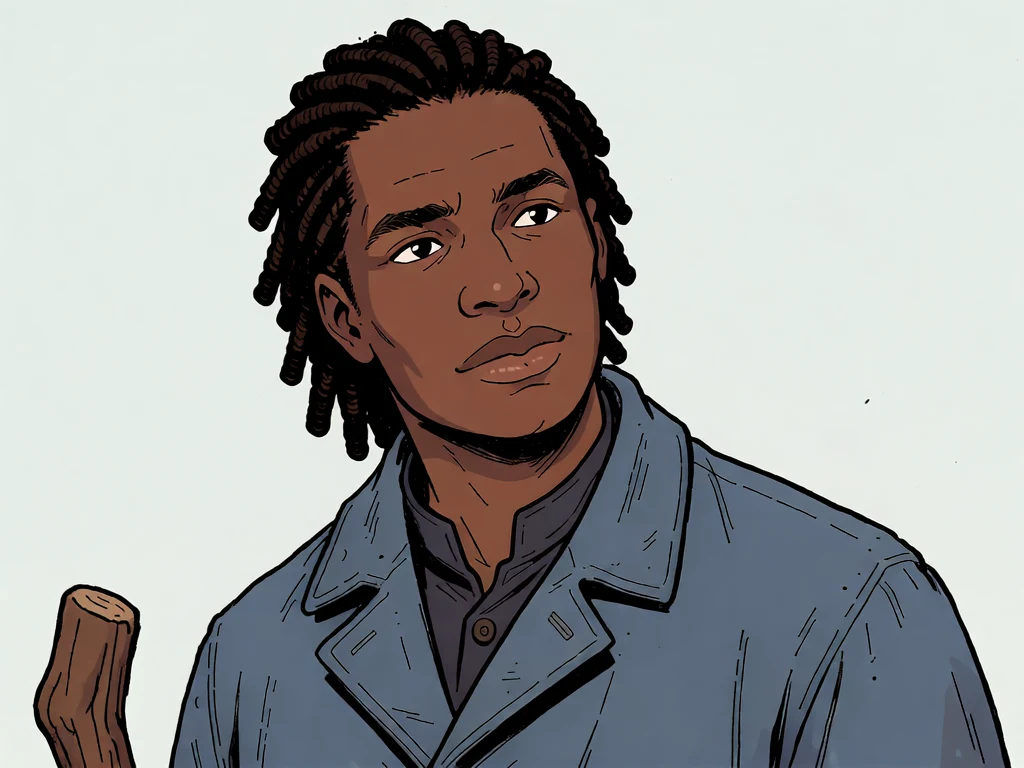
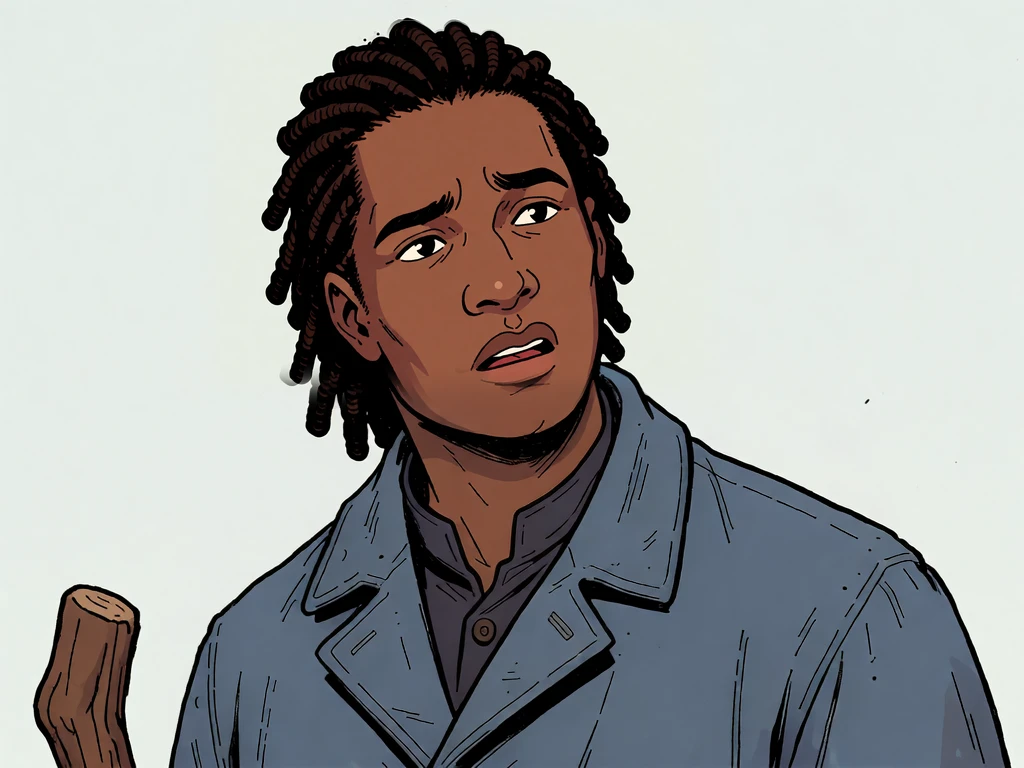
Run 8: Rook's "Granny?" picture redrawn, more concerned (Ladi)
Claude-Session: https://claude.ai/code/session_01JTmPYBGE5RJi7qTbK5Qior

diff --git a/src/engine/stills.ts b/src/engine/stills.ts
@@ -52,7 +52,7 @@ export const STILLS: Record<string, StillCard> = {
   "r8-4": { who: "The event: his wisp at the end of a thin, shaking beam, over a black pit", faces: "No face." },
   "r8-5": { who: "Tilda near, Rook behind her braced on his staff", faces: "She is lost: eyes wide, brows up, mouth open. He looks back at her, eyes wide, mouth just open.", untilNextMs: 6000 },
   "r8-6": { who: "The same two, turned", faces: "She looks at him, waiting, mouth shut tight. He looks down at his staff, brows pulled hard together." },
-  "r8-7": { who: "Rook alone, head a little tilted", faces: "Listening: eyes up and aside, brows raised, mouth a little open.", extraMs: 1000 },
+  "r8-7": { who: "Rook alone, head a little tilted", faces: "Concerned: brows raised and drawn together, mouth open as if he has just asked.", extraMs: 1000 },
   "r8-8": { who: "The cutters in a row, hats in hand, backs to the wells", faces: "No faces." },
   "r8-9": { who: "Tilda, arms round the book, watching him", faces: "Shut. She has stopped expecting him to fix it." },
   "r8-10": { who: "Her hands on the book, the page of sixteens, the pen stopping", faces: "No face." },

diff --git a/src/engine/sieve.ts b/src/engine/sieve.ts
@@ -10,7 +10,7 @@ export const SIEVE = {
   shrine: "sieve",
   /** Ticks of talk before the stop starts. */
   bellTicks: 3,
-  /** What Tilda says when it starts again: about what just happened on the board, not an echo of Hesta (Ladi, 24 Nov, turning down "Again, please."). The story thread's working line until he picks. */
+  /** What Tilda says when it starts again: about what just happened on the board, not an echo of Hesta (Ladi, 24 Nov, turning down "Again, please."). He ruled for this one at 10:53 AM. */
   again: "Too many down the wells.",
   /** Height lost a tick untouched; gained on the tick a staff first reaches a wisp; gained each tick it stays. */
   fall: 1.6,

diff --git a/CREDITS.md b/CREDITS.md
@@ -13,7 +13,7 @@ subscription-only billing so no Spark was spent. Sources are in the project file
 | ui/*.webp (phone stick and buttons) | z_image_turbo_bf16, cropped to a circle with an alpha mask |
 | sprites/brazier.png, sprites/wisp-dawn.png (logo and favicon) | z_image_turbo_bf16, background removed with birefnet_image_background_removal_fp16 |
 | faces/&lt;who&gt;-&lt;mood&gt;.webp (story portraits: Hesta 3 moods, Lumi 6, Rook 4, Nell 6, Sefa 7, Kes 5; Kes's are drafts from the cast art thread, `sogni/lanternfall/production/kes/game/`, 2026-11-24) | Mood faces (Lumi's calling, grudging and delighted redrawn closed-mouth on 2026-11-23) from the cast art thread (project files `sogni/lanternfall/production/<who>/face-*.png`, 2026-11-23), resized to 160 px WebP |
-| stills/r8-{1,2,7,10,11a,11b}.webp (run 8's reaction stills: Tilda steady, Tilda and Rook at the far well, Rook listening, the count book, Tilda asking, Rook with no answer) | Drafts drawn by the gameplay thread with krea2_identity_edit_v1_2 on Sogni, 2026-11-24, on Ladi's plan, 0 Spark (project files `gameplay/stills/run8/`), 1024 by 768 as delivered. | The stills panel over the Sieve (`src/engine/stills.ts`) |
+| stills/r8-{1,2,7,10,11a,11b}.webp (run 8's reaction stills: Tilda steady, Tilda and Rook at the far well, Rook asking for Granny (redrawn the same day, more concerned, at Ladi's word), the count book, Tilda asking, Rook with no answer) | Drafts drawn by the gameplay thread with krea2_identity_edit_v1_2 on Sogni, 2026-11-24, on Ladi's plan, 0 Spark (project files `gameplay/stills/run8/`), 1024 by 768 as delivered. | The stills panel over the Sieve (`src/engine/stills.ts`) |
 | stills/r8-5.webp, stills/r8-6.webp (run 8's reaction stills at the tug: Tilda lost with Rook uneasy behind her; Tilda watching, Rook looking down) | Drawn by the cutscene thread on Sogni, 2026-11-24, on Ladi's plan; Ladi approved them at 10:44 AM ("Faces look good"). Every step with krea2_identity_edit_v1_2 on the subscription, 0 Spark, as that thread confirmed from its render logs (Tilda alone, Rook added behind her, the face changes on head crops), from the project's own persona sheets lf-tilda and lf-rook-high-grounds; the face transplants, Tilda's chalk smudge and Rook's enlarging are its own script and hand work, no model (sources `sogni/lanternfall/production/story/run8-stills/s5-closer.png` and `s6-closer.png`; delivered in project files `gameplay/stills/run8/`), 1024 by 768 as delivered | The stills panel over the Sieve: 5 as the tug takes hold, 6 cross-fading over it when the tug ends |
 | stills/r6-land-{1,2,3}.webp (run 6's landing pictures: the crowd looking up with Lumi in front, the comet over the island, Hesta landing in the glass) | Drafts drawn by the gameplay thread on Sogni, 2026-11-24, on Ladi's plan, 0 Spark, all with krea2_identity_edit_v1_2; picture 2 redrawn the same day from the game's own island (project files `gameplay/stills/run6/`), 1024 by 768 as delivered | The held pictures of the landing between runs 6 and 7; picture 2 shows only with `?stillsonly`, since the comet now falls on the map |
 | stills/alarm/**/*.webp (the alarm before run 6 as moving layers: the kitchen with its lamp and three cups apart; the falls; the Kindling ground close with its fire strong, low, in embers and out, drawn from the game's own story/kindling-ring.webp; and in shot4/ the island going down: sky, five layers of cloud, the island cut out with its heart bright and dim, a strip of waterfall, four rocks), stills/r6-alarm-5.webp (Lumi at the door, worried) and stills/r7-end-1.webp (the island clear of the cloud) | Drafts drawn by the gameplay thread on Sogni, 2026-11-24, on Ladi's plan, 0 Spark, with krea2_identity_edit_v1_2, the island drawn from the game's own (project files `gameplay/stills/run6/` and `gameplay/stills/run6/alarm-layers/`); the layers turned from PNG to WebP here, same sizes | The alarm's five shots before run 6 (`?noalarm` leaves them out) and the picture at the end of run 7. The alarm's sparks are drawn in the page, and its sounds (bell, timbers, falls, far-off voices, the low roll, rock breaking) are made in the page, no files |
